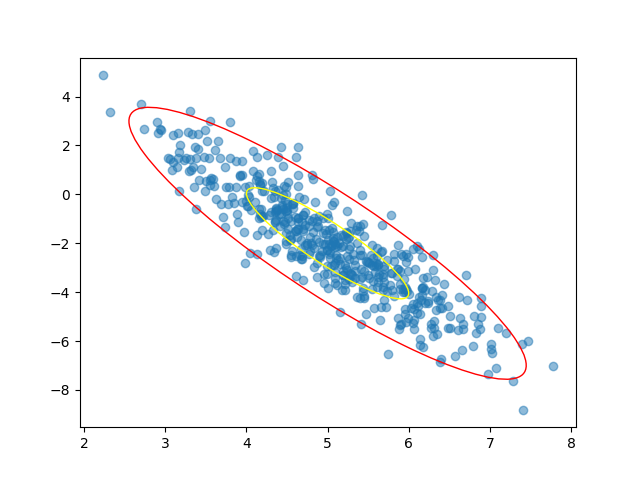
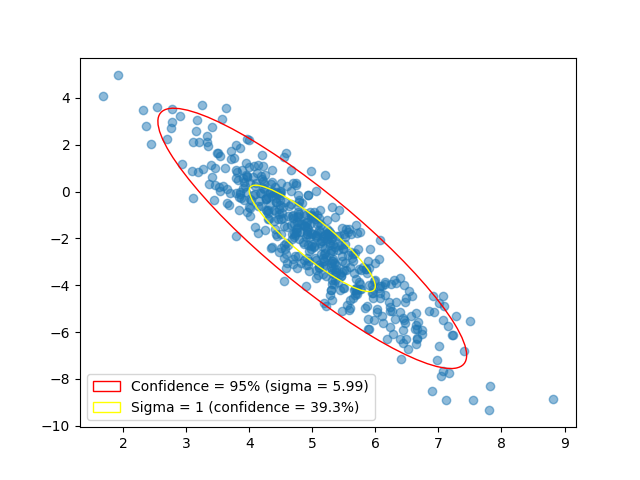
Added legends to plot, improved error messages

diff --git a/error_ellipse.py b/error_ellipse.py
@@ -36,7 +36,7 @@ def get_error_ellipse_parameters(cov, confidence=None, sigma=None):
     if(cov.shape != (2,2)):
         raise ValueError("The covariance matrix needs to be of shape (2,2)")
     if(confidence == None and sigma == None):
-        raise RuntimeError("One of confidence or sigma is needed as argument")
+        raise RuntimeError("One of confidence and sigma is needed as input argument")
     if(confidence and sigma):
         print("Argument sigma is ignored as confidence is also provided!")
     
@@ -58,6 +58,10 @@ def get_error_ellipse_parameters(cov, confidence=None, sigma=None):
 
     return semi_major, semi_minor, angle, confidence, sigma
 
+
+##################
+## Example usage 
+##################
 if(__name__ == "__main__"):
     mean_x, mean_y = 5, -2
     covariance = [[1, -2.04], [-2.04, 5.16]]
@@ -70,13 +74,18 @@ if(__name__ == "__main__"):
     plt.scatter(data_points[:,0], data_points[:,1], alpha = .5)
 
     confidence = 0.95
-    semi_major, semi_minor, angle, sigma, confidence\
+    semi_major, semi_minor, angle, confidence, sigma\
         = get_error_ellipse_parameters(covariance, confidence = confidence)
-    ax.add_patch(Ellipse((mean_x, mean_y), 2*semi_major, 2*semi_minor, 180*angle/np.pi, facecolor = 'none', edgecolor='red'))
+    ax.add_patch(Ellipse((mean_x, mean_y), 2*semi_major, 2*semi_minor, 180*angle/np.pi,\
+            facecolor = 'none', edgecolor = 'red',\
+            label = 'Confidence = {:.0f}% (sigma = {:.2f})'.format(confidence * 100, sigma)))
 
     sigma = 1
-    semi_major, semi_minor, angle, sigma, confidence\
+    semi_major, semi_minor, angle, confidence, sigma,\
         = get_error_ellipse_parameters(covariance, sigma = sigma)
-    ax.add_patch(Ellipse((mean_x, mean_y), 2*semi_major, 2*semi_minor, 180*angle/np.pi, facecolor = 'none', edgecolor='yellow'))
-    fig.savefig('plot.png')    
+    ax.add_patch(Ellipse((mean_x, mean_y), 2*semi_major, 2*semi_minor, 180*angle/np.pi,\
+            facecolor = 'none', edgecolor = 'yellow',\
+            label = 'Sigma = {:.0f} (confidence = {:.1f}%)'.format(sigma, confidence * 100)))
+    ax.legend()
+#    fig.savefig('plot.png')
     plt.show()
